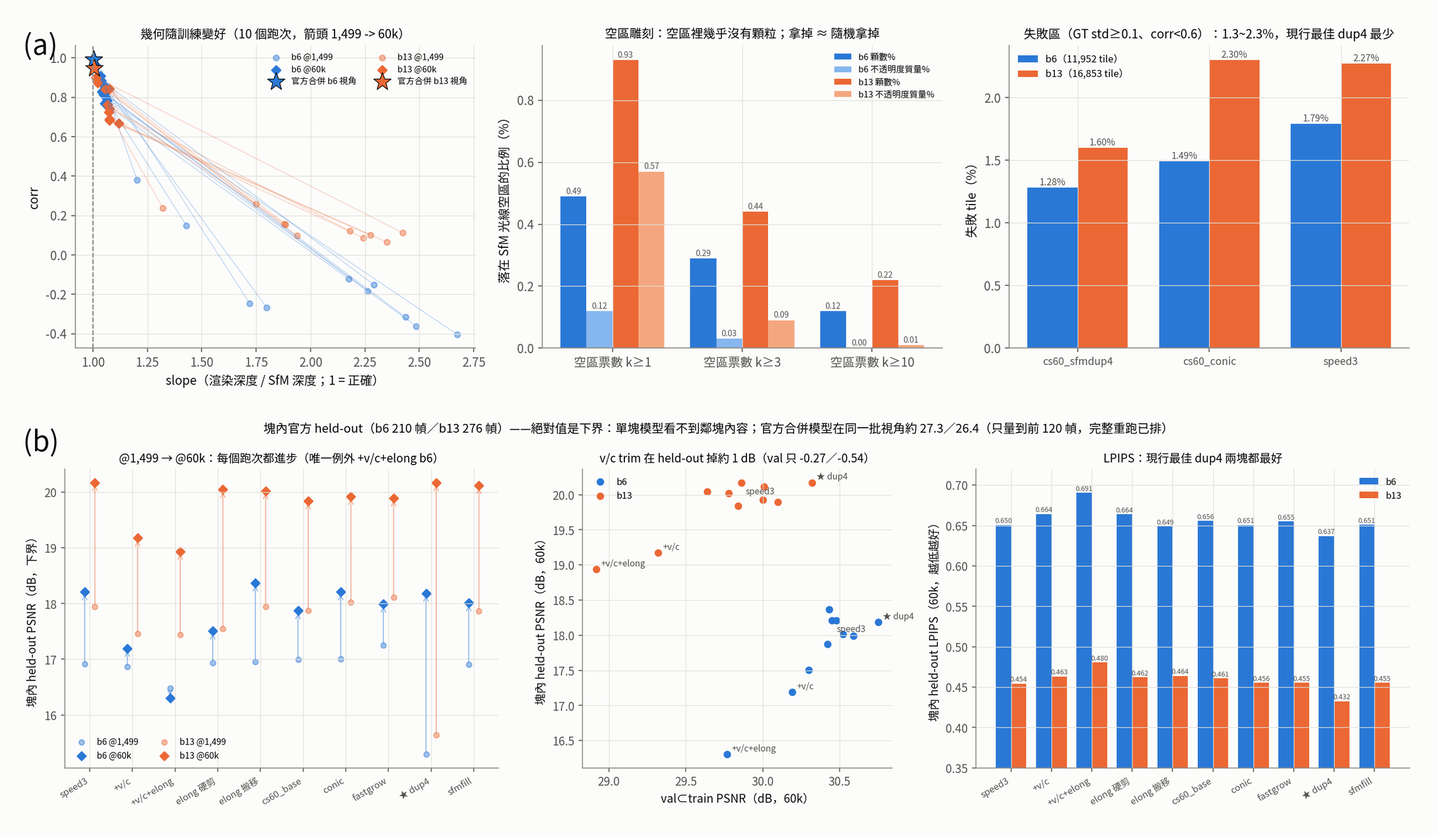
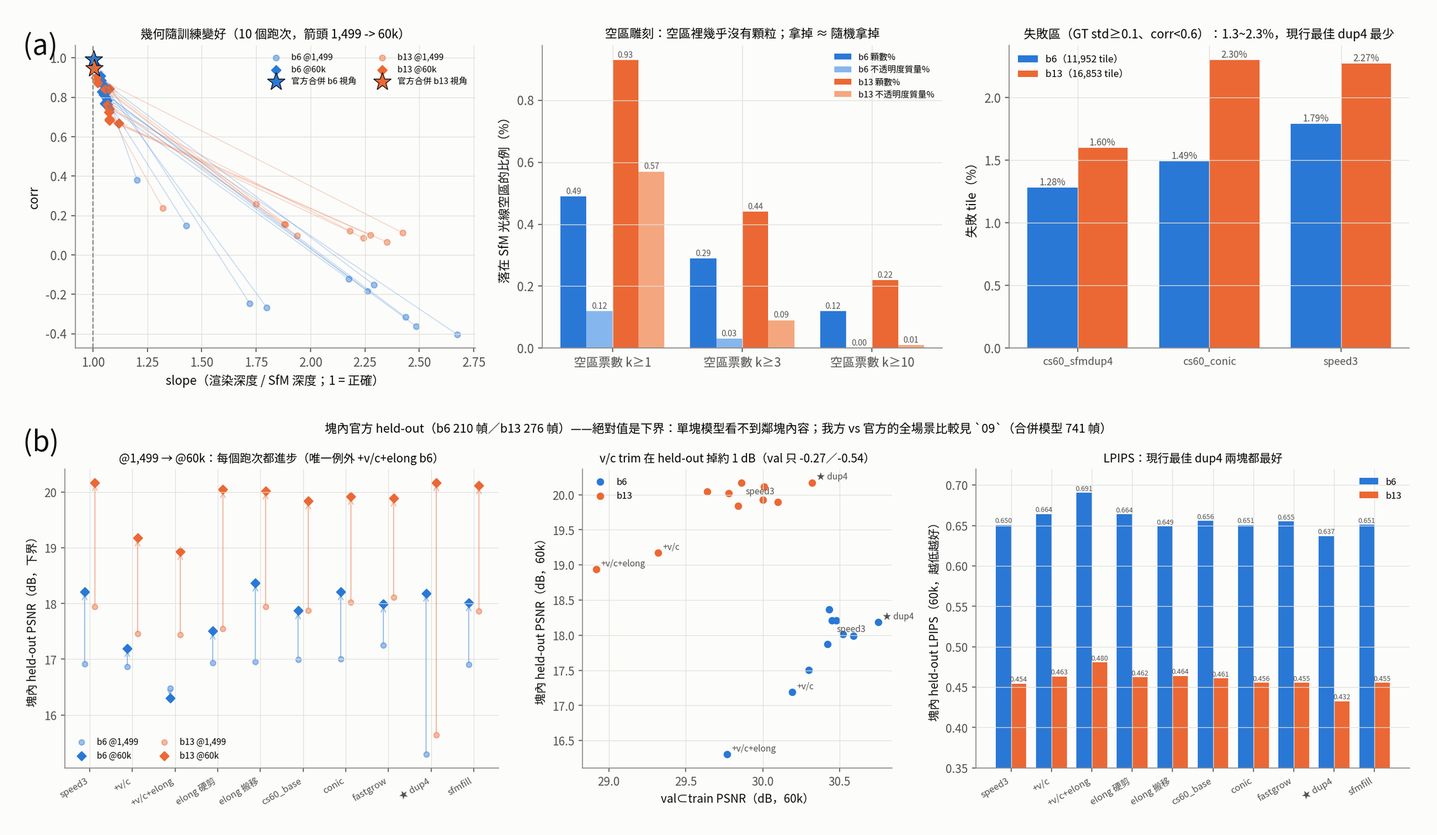
紀錄：我方 4x4 vs 官方 release／論文設定（合併 held-out 同工具三項勝、逐塊、同 N 逐段計時）；dup b13、oent、vpctilek；圖 08/09/12 更新
Claude-Session: https://claude.ai/code/session_01ASvjmyPMC4F37W41o8s8Aq

Changed region(s): [[0.1858, 0.4992, 0.8053, 0.5304]]

diff --git a/tools/plot_analysis.py b/tools/plot_analysis.py
@@ -147,10 +147,10 @@ def n08_init20k(d):
 
 
 def n08_init60k(d):
-    # 10-03：dup5（起始 > cap）與 dup4 抖動 1.0／0.25 只跑了 b6（b13 在佇列，4x4 之後）
+    # 10-08：dup5（起始 > cap）與 dup4 抖動 1.0／0.25 的 b13 出來了（vs cs60_conic b13 30.00）
     arms = ["sfmfill", "fastgrow\n(add_ratio 1.2)", "dup2", "★ dup4\n（現行最佳）", "dup5\n（起始 > cap）", "dup4\n抖動 1.0", "dup4\n抖動 0.25"]
     b6 = [0.04, 0.11, 0.10, 0.27, 0.28, 0.29, 0.18]
-    b13 = [0.01, 0.10, 0.13, 0.32, np.nan, np.nan, np.nan]
+    b13 = [0.01, 0.10, 0.13, 0.32, 0.30, 0.33, 0.19]
     x = np.arange(len(arms)); wd = 0.38
     fig, ax = plt.subplots(figsize=(11, 4.4))
     barlabels(ax, ax.bar(x - wd / 2, b6, wd, color=C1, label="b6"), fmt="{:+.2f}")
@@ -163,7 +163,7 @@ def n08_init60k(d):
     ax.axhline(0, color=MUTED, lw=1); ax.axvline(3.5, color=MUTED, lw=0.8, ls=":")
     ax.set_xticks(x); ax.set_xticklabels(arms, fontsize=8.5); ax.set_ylabel("ΔPSNR vs 預設 SfM（dB）")
     ax.legend(fontsize=8, loc="upper left")
-    ax.set_title("60k 完整配方（conic 開、同 N 2.34M）：相對預設 SfM init 的差；dup4 之後再加份數或改抖動都持平", fontsize=10.5)
+    ax.set_title("60k 完整配方（conic 開、同 N 2.34M）：相對預設 SfM init 的差；dup4 之後再加份數或改抖動都持平（兩塊都確認）", fontsize=10.5)
     save(fig, d, "n08_init60k.png")
 
 
@@ -195,6 +195,103 @@ def n09_official_blocks(d):
     ax.set_ylabel("val PSNR（dB，val⊂train）"); ax.legend(fontsize=8)
     ax.set_title("同上：val PSNR（論文設定：顆數少 25~42%、val 反而高）", fontsize=10)
     save(fig, d, "n09_official_blocks.png")
+
+
+# 10-09：我方最佳解 4x4（16 塊 [solo]、lean＋record_reduce、dup4、cap 2.6M）vs 官方 release vs 官方論文設定
+#   資料：lab outputs/lab/full44_best（chart_data、台帳）、cityGS_origin(_trimfix)/outputs/*/blocks、logs/citygs_official_resources.tsv
+#   峰值實佔一律 GB（1e9）：官方 MiB x 1.048576 / 1000；時間 = 分鐘（我方台帳 START->DONE；官方 wall_s）
+F44 = {
+    'oh': [20.239, 19.675, 22.011, 20.452, 19.714, 17.9, 19.316, 19.017, 21.96, 19.767, 20.406, 21.354, 22.545, 22.073, 21.824, 22.738],
+    'rh': [20.114, 19.947, 21.322, 17.15, 20.025, 18.357, 19.171, 16.871, 21.124, 17.491, 18.43, 18.961, 26.387, 22.869, 22.206, 23.212],
+    'ph': [19.811, 19.81, 20.99, 16.638, 19.569, 18.22, 18.898, 16.401, 20.665, 17.074, 18.112, 18.613, 26.191, 22.521, 21.809, 23.076],
+    'ohl': [0.5392, 0.5408, 0.3863, 0.4693, 0.567, 0.6447, 0.4906, 0.5315, 0.4726, 0.5475, 0.4944, 0.4427, 0.3642, 0.4181, 0.4438, 0.3911],
+    'rhl': [0.4457, 0.4051, 0.3079, 0.4466, 0.4524, 0.4634, 0.3987, 0.4723, 0.3772, 0.4976, 0.4537, 0.4212, 0.1671, 0.2942, 0.346, 0.3043],
+    'phl': [0.4894, 0.4324, 0.332, 0.5285, 0.5038, 0.4947, 0.4269, 0.5356, 0.3979, 0.5355, 0.4894, 0.4687, 0.1631, 0.3136, 0.3647, 0.324],
+    'opk': [4.12, 4.1, 4.09, 4.11, 4.07, 4.09, 4.05, 4.14, 4.11, 4.17, 4.05, 4.08, 4.05, 4.13, 4.07, 4.11],
+    'rpk': [10.81, 9.5, 8.39, 7.65, 12.43, 10.23, 9.7, 8.59, 14.56, 12.78, 11.16, 10.21, 13.35, 14.03, 14.17, 9.33],
+    'ppk': [7.34, 7.06, 6.89, 5.24, 9.57, 8.4, 8.25, 6.19, 10.14, 9.65, 8.47, 6.47, 9.79, 11.23, 9.74, 6.79],
+    'omin': [108, 120, 118, 119, 122, 112, 109, 121, 117, 114, 117, 122, 112, 111, 111, 107],
+    'rmin': [245, 219, 206, 198, 271, 244, 240, 224, 291, 280, 269, 352, 291, 317, 300, 358],
+    'pmin': [259, 248, 237, 215, 340, 278, 275, 255, 351, 323, 308, 273, 360, 396, 351, 459],
+    'rext': [0, 0, 0, 0, 0, 0, 0, 0, 0, 0, 5302, 16251, 6174, 7128, 8914, 18161],
+    'pext': [8290, 5722, 3674, 4610, 7358, 5108, 7712, 6448, 7698, 8278, 14854, 11654, 14704, 8696, 12228, 17351],
+}
+LBL3 = ["★ 我方 4x4", "官方 release", "官方論文設定"]
+
+
+def n09_full44_merged(d):
+    """合併模型、官方 741 幀 held-out，三者同一支工具（tools/eval_official_test.py）。"""
+    q = {"PSNR": [27.739, 27.261, 27.280], "SSIM": [0.8790, 0.8671, 0.8697], "LPIPS（越低越好）": [0.1293, 0.1540, 0.1467]}
+    r = {"N（百萬）": [17.63, 24.48, 24.72], "渲染 FPS": [35.6, 21.9, 21.9],
+         "16 塊總 N（百萬）": [37.44, 129.55, 87.89]}
+    fig, axs = plt.subplots(1, 6, figsize=(17, 3.6))
+    cols = [C1, MUTED, C2]
+    for ax, (k, v) in zip(axs, list(q.items()) + list(r.items())):
+        bars = ax.bar(range(3), v, color=cols, width=0.65)
+        fmt = "{:.3f}" if max(v) < 1 else ("{:.2f}" if max(v) < 50 else "{:.1f}")
+        barlabels(ax, bars, fmt=fmt, size=8)
+        lo = min(v); hi = max(v)
+        if k in ("PSNR", "SSIM", "LPIPS（越低越好）"):
+            ax.set_ylim(lo - (hi - lo) * 1.2, hi + (hi - lo) * 0.6)
+        ax.set_xticks(range(3)); ax.set_xticklabels(["我方", "release", "論文\n設定"], fontsize=8.5)
+        ax.set_title(k, fontsize=10)
+    fig.suptitle("合併模型・官方 741 幀 held-out（三者同一支評分工具）：我方三項全贏、顆數少 28%、FPS 1.6 倍"
+                 "　⚠ 同一個 release 模型，官方工具量 25.79／我方工具 27.26（差 1.47 dB，原因未查）", fontsize=10.5)
+    save(fig, d, "n09_full44_merged.png")
+
+
+def n09_full44_blocks(d):
+    x = np.arange(16); wd = 0.27
+    fig, axs = plt.subplots(1, 3, figsize=(18, 4.4))
+    ax = axs[0]
+    for k, c, dx, lb in [("oh", C1, -wd, LBL3[0]), ("rh", MUTED, 0, LBL3[1]), ("ph", C2, wd, LBL3[2])]:
+        ax.bar(x + dx, F44[k], wd, color=c, label=lb)
+    ax.set_ylim(15, 27.5); ax.set_xticks(x); ax.set_xticklabels([str(i) for i in x], fontsize=8)
+    ax.set_xlabel("4x4 block"); ax.set_ylabel("同塊 held-out PSNR（dB，下界）"); ax.legend(fontsize=7.5, ncol=3, loc="upper left")
+    ax.set_title("同塊 held-out（我方塊視角）：平均 20.69／20.23／19.90；LPIPS 官方 16 塊全較好\n"
+                 "⚠ 偏向官方：官方單塊從全場景 coarse 起步、看得到塊外", fontsize=9.5)
+    ax = axs[1]
+    for k, c, mk, lb in [("opk", C1, "o", LBL3[0]), ("rpk", MUTED, "s", LBL3[1]), ("ppk", C2, "^", LBL3[2])]:
+        ax.plot(x, F44[k], marker=mk, color=c, lw=1.2, ms=5, label=lb)
+    ax.axhline(6.44, color="#c0392b", lw=1, ls="--"); ax.text(15.4, 6.6, "6 GiB 卡", color="#c0392b", fontsize=8, ha="right")
+    ax.set_xticks(x); ax.set_xlabel("4x4 block"); ax.set_ylabel("訓練峰值實佔（GB）"); ax.legend(fontsize=7.5)
+    ax.set_title("峰值實佔：我方 4.05~4.17；release 7.65~14.56；論文設定 5.24~11.23（只有 b3、b7 低於 6 GiB）", fontsize=9.5)
+    ax = axs[2]
+    for k, c, dx, lb in [("omin", C1, -wd, LBL3[0]), ("rmin", MUTED, 0, LBL3[1]), ("pmin", C2, wd, LBL3[2])]:
+        bars = ax.bar(x + dx, [m / 60 for m in F44[k]], wd, color=c, label=lb)
+        if k != "omin":
+            ext = F44["rext" if k == "rmin" else "pext"]
+            for b_, e in zip(bars, ext):
+                if e > 2000:
+                    b_.set_hatch("///"); b_.set_alpha(0.45)
+    ax.set_xticks(x); ax.set_xlabel("4x4 block"); ax.set_ylabel("訓練時間（h）"); ax.legend(fontsize=7.5, loc="upper left")
+    ax.set_title("訓練時間（斜線＝期間外部佔卡 > 2 GB，不可引用）\nblock 0~9 乾淨：我方 19.3 h vs release 40.3 h（0.48 倍）", fontsize=9.5)
+    save(fig, d, "n09_full44_blocks.png")
+
+
+def n09_stepprof(d):
+    """同 N 附近的每步逐段時間（每標記點同步）：官方 stepprof b6（開頭 1,500 步）vs 我方 b6 @14,999 起 1,200 步。"""
+    segs = ["forward", "backward", "optimizer", "loss", "週期 trim\n（÷500 攤平）", "其他"]
+    ours = [21.15, 68.75, 15.14, 5.06, 35.95, 10.81]
+    rel = [47.45, 137.96, 15.66, 6.11, 0.0, 6.55]
+    pap = [41.61, 127.95, 10.74, 6.13, 58.20, 0.0]   # 官方 stepprof 的 trim 列已是每步攤平（1,500 步窗）；其他欄為負值（-14.8）記 0
+    names = ["★ 我方 b6\nN 2.29M（lean＋rr）", "官方 release b6\nN 2.50M（trim 不跑）", "官方論文設定 b6\nN 1.75M（含 trim）"]
+    fig, ax = plt.subplots(figsize=(12, 3.8))
+    cols = [C1, C2, C3, C4, "#c9b458", MUTED]
+    for i, row in enumerate([ours, rel, pap]):
+        left = 0
+        for j, v in enumerate(row):
+            if v > 0:
+                ax.barh(i, v, left=left, color=cols[j], label=segs[j] if i == 0 else None)
+                if v > 9:
+                    ax.text(left + v / 2, i, f"{v:.0f}", ha="center", va="center", fontsize=8, color="white")
+                left += v
+        ax.text(left + 3, i, f"{left:.0f} ms", va="center", fontsize=9, color=INK2)
+    ax.set_yticks(range(3)); ax.set_yticklabels(names, fontsize=8.5); ax.invert_yaxis()
+    ax.set_xlabel("每步 ms（逐段同步計時）"); ax.legend(fontsize=8, ncol=6, loc="upper center", bbox_to_anchor=(0.5, -0.2))
+    ax.set_title("同 N 附近：官方每步做 2 次 backward（loss 與 depth 的 extra_loss 各一次，各約 64~69 ms）、forward 帶幾何通道；"
+                 "我方 depth／normal 權重 0 => 1 次 backward＋lean", fontsize=9.5)
+    save(fig, d, "n09_stepprof.png")
 
 
 def n10_lean_loop(d):
@@ -355,7 +452,7 @@ def n12_heldout(d):
     ax.set_ylim(0.35, 0.72); ax.set_ylabel("塊內 held-out LPIPS（60k，越低越好）"); ax.legend(fontsize=8)
     ax.set_title("LPIPS：現行最佳 dup4 兩塊都最好", fontsize=10)
     fig.suptitle("塊內官方 held-out（b6 210 幀／b13 276 幀）——絕對值是下界：單塊模型看不到鄰塊內容；"
-                 "官方合併模型在同一批視角約 27.3／26.4（只量到前 120 幀，完整重跑已排）", fontsize=10.5)
+                 "我方 vs 官方的全場景比較見 `09`（合併模型 741 幀）", fontsize=10.5)
     save(fig, d, "n12_heldout.png")
 
 
@@ -369,7 +466,7 @@ DOCS = {
     "06_事後剪枝與fine-tune": ["f3_tile_topk_posthoc", "f6_prune_finetune"],
     "07_成本感知取樣與預算": ["n07_sampling"],
     "08_初始化": ["n08_init20k", "f4_init60k", "n08_init60k"],
-    "09_官方參考線": ["n09_official_blocks", "f7_official_trim", "f5_official_prune"],
+    "09_官方參考線": ["n09_full44_merged", "n09_full44_blocks", "n09_stepprof", "n09_official_blocks", "f7_official_trim", "f5_official_prune"],
     "10_速度優化_lean與kernel拆解": ["n10_lean_loop", "n10_kernels"],
     "11_逐配對工作量上限": ["n11_tiles"],
     "12_新年代重測_幾何floater失敗區": ["n12_recheck", "n12_heldout"],
@@ -408,7 +505,7 @@ def main():
                            capture_output=True, text=True)
         if r.returncode != 0:
             print(r.stdout[-2000:], r.stderr[-2000:]); raise SystemExit(f"⛔ {sc} 失敗")
-    for f in (n02_current, n05_cap60k, n07_sampling, n08_init20k, n08_init60k, n09_official_blocks,
+    for f in (n02_current, n05_cap60k, n07_sampling, n08_init20k, n08_init60k, n09_official_blocks, n09_full44_merged, n09_full44_blocks, n09_stepprof,
               n10_lean_loop, n10_kernels, n11_tiles, n12_recheck, n12_heldout):
         f(tmp)
     for doc, panels in DOCS.items():

diff --git a/紀錄/實驗分析/09_官方參考線.md b/紀錄/實驗分析/09_官方參考線.md
@@ -1,21 +1,34 @@
 # 09 官方參考線（CityGaussianV2 在當前資料上）
 
-> **圖**：`09_官方參考線.png`（同名，3 個面板）　｜　**年代**：新年代；**held-out＝官方 741 幀 test**（唯一可對外比的數字）
+> **圖**：`09_官方參考線.png`（同名，6 個面板）　｜　**年代**：新年代；**held-out＝官方 741 幀 test**（唯一可對外比的數字）
 > **資料**：lab `cityGS_origin`（未修改原始碼）＋ `gspl_official`（照官方 requirements 建的環境）；`scripts/lab/task_citygs_origin.sh`；
 > 資源 `logs/citygs_official_resources.tsv`、逐塊現況 `logs/citygs_official_status_*.txt`、剪枝 `logs/citygs_official_prune.tsv`（lab）
-> **重現**：`python tools/plot_analysis.py`（a=新 `n09_official_blocks`、b=舊 f7、c=舊 f5）
+> 我方 4x4：lab `outputs/lab/full44_best`（`logs/full44_test_1005_0432.log`、`full44_res_1005_0452.log`、各塊 `chart_data/`）；官方逐段計時 `logs/citygs_official_stepprof_{orig,paper}_b6.txt`
+> **重現**：`python tools/plot_analysis.py`（a=`n09_full44_merged`、b=`n09_full44_blocks`、c=`n09_stepprof`、d=`n09_official_blocks`、e=舊 f7、f=舊 f5）
 
 ## 圖表對照
 
 | 面板 | 內容 | 對應本文 |
 |---|---|---|
-| (a) | 官方 block 3／6：原版（trim 從未執行）vs 一行修正（trim 執行）vs 論文設定 的 N 與 val | §3、§4 |
-| (b) | 官方配方讓 trim 真的執行（官方 b3）：N、val、峰值 VRAM、牆鐘 | §3 |
-| (c) | 官方合併模型依 opacity 剪枝的 held-out 曲線 | §5 |
+| (a) | ★ 合併模型・官方 741 幀 held-out：我方 4x4 vs 官方 release vs 官方論文設定（同一支工具）＋N／FPS | §0.1 |
+| (b) | 逐塊（4x4 共 16 塊）：同塊 held-out PSNR、訓練峰值實佔、訓練時間 | §0.2 |
+| (c) | 同 N 附近的每步逐段時間：我方 vs 官方 release vs 論文設定（b6） | §0.3 |
+| (d) | 官方 block 3／6：原版（trim 從未執行）vs 一行修正（trim 執行）vs 論文設定 的 N 與 val | §3、§4 |
+| (e) | 官方配方讓 trim 真的執行（官方 b3）：N、val、峰值 VRAM、牆鐘 | §3 |
+| (f) | 官方合併模型依 opacity 剪枝的 held-out 曲線 | §5 |
 
 ## 結論
 
-- **現行（10-03）**：官方原版 held-out 25.79／0.833／0.176 是唯一的對外基準；照論文設定的全場景（14 塊＋合併＋held-out）已排；我方的合併＋held-out 還沒跑。
+- **現行（10-09）★ 我方最佳解 4x4 全場景（合併 17.63M）在官方 741 幀 held-out 三項都贏兩條官方線**（同一支評分工具）：
+  **27.739／0.879／0.129** vs release 27.261／0.867／0.154（24.48M）vs 論文設定 27.280／0.870／0.147（24.72M）；
+  渲染 35.6 vs 21.9 FPS；訓練峰值實佔 **≤ 4.17 GB**（官方 release 7.65~14.56、論文設定 5.24~11.23）；乾淨的 block 0~9 訓練時間 0.48 倍。
+- ⚠ **評分工具有 1.47 dB 落差**：同一個 release 模型，官方 `main.py test` 量 25.79、我方 `eval_official_test.py` 量 27.26（原因未查）
+  => 目前只能說「同一支工具下我方第一」；與論文 27.23 不可比。論文設定的官方工具 test 10-08 因 `--output` 指錯失敗，已修、重排（第二個交叉點）。
+- 同 N 附近每步：我方 121 ms vs 官方 release 214 ms（1.78 倍）。官方每步 **2 次 backward**（loss 與深度的 extra_loss 分開 backward，各約 69 ms）
+  且 forward 帶幾何通道；我方 depth／normal 權重 0 => 1 次 backward＋lean。
+- 同塊 held-out（單塊模型、我方塊視角）：PSNR 平均 20.69／20.23／19.90、我方 9/16 塊勝 release；**LPIPS 官方 16 塊全較好**——
+  但這個量尺偏向官方（官方單塊從全場景 coarse 起步、看得到塊外；合併後這個優勢消失，合併 LPIPS 反而我方好）。
+- 官方兩條線之間：論文設定的 val 15/16 塊高於 release，但同塊 held-out 16/16 塊**低於** release；合併後幾乎平手（+0.02 dB、LPIPS 較好）。
 - **官方原版在當前資料上的 held-out：PSNR 25.79／SSIM 0.833／LPIPS 0.176**，N 24.48M、ckpt 41 GB、test 峰值實佔 11.9 GB、每幀 0.088 s。
 - **官方 aerial release 的 trim 從未執行**：從 .ckpt 初始化時 renderer 被 coarse 的（`diable_trimming: true`）蓋掉，resolved config 卻仍記 false。
   一行修正後官方 b3：N 5.23M → 0.91M（-83%）、峰值 7.30 → 2.75 GB、val 31.69 → 30.87；我方程式碼跑同配方 0.93M／30.91 => 一致。
@@ -24,6 +37,71 @@
 - 官方模型依 opacity 剪 10% 逐位元不變、剪 25% 只 -0.03 => 約 610 萬顆幾乎白付。
 - **v/c trim 在官方 vanilla 配方大輸**（b3 -2.62、b6 -3.77）：v/c 只在 MCMC 下有效。
 - 與論文 27.23 的差距：release 的 trim 沒跑、ω／prune_ratio 與論文不同、資料為重生版 —— 論文設定的全場景出來後再談。
+
+
+## §0 我方最佳解 4x4 vs 官方（10-09，面板 a、b、c）
+
+**配置**
+```
+我方     cs60_sfmdup4 配方（conic、dup4 init、cap 2.6M、sh3、absgrad 2.0、lean＋record_reduce），4x4（visibility 0.08）、16 塊 [solo]、不鎖 VRAM
+release  官方 cityGS_origin 未改原始碼＋gspl_official，sh2、coarse -> 4x4（0.05）-> 16 塊 60k；trim 從未執行（§3）
+論文設定 release＋一行修正（trim 執行）＋ω 0.9、prune_ratio 0.025（§4）
+```
+
+### §0.1 合併模型（面板 a；官方 741 幀，三者都用 `tools/eval_official_test.py`）
+
+| | PSNR | SSIM | LPIPS | N | 渲染 | 渲染峰值配置 |
+|---|---:|---:|---:|---:|---:|---:|
+| **★ 我方 4x4** | **27.739** | **0.8790** | **0.1293** | **17.63M** | **28.1 ms（35.6 FPS）** | 6.32 GiB |
+| 官方 release | 27.261 | 0.8671 | 0.1540 | 24.48M | 45.6 ms（21.9 FPS） | 7.08 GiB |
+| 官方論文設定 | 27.280 | 0.8697 | 0.1467 | 24.72M | 45.8 ms（21.9 FPS） | 7.13 GiB |
+| （官方工具量 release） | 25.79 | 0.833 | 0.176 | | 88 ms | 11.9 GB |
+
+⚠ 工具落差 1.47 dB（同一個 release 模型）未查；排名在同一支工具下成立，絕對值暫不對外。
+
+### §0.2 逐塊（面板 b；4x4 block 0~15，格位相同但訓練相機只重疊 52~70%）
+
+| 塊 | 相機 | val 我／rel／論 | 同塊 held-out PSNR 我／rel／論 | LPIPS 我／rel／論 | 峰值 GB 我／rel／論 | 時間 h 我／rel／論 | N rel／論 |
+|---|---:|---|---|---|---|---|---|
+| 0 | 468 | 31.78／30.90／30.99 | 20.24／20.11／19.81 | 0.539／0.446／0.489 | 4.12／10.81／7.34 | 1.80／4.09／4.31* | 8.22／5.29 |
+| 1 | 811 | 30.34／30.66／30.83 | 19.68／19.95／19.81 | 0.541／0.405／0.432 | 4.10／9.50／7.06 | 2.00／3.65／4.13* | 7.07／4.60 |
+| 2 | 1009 | 29.65／29.54／29.72 | 22.01／21.32／20.99 | 0.386／0.308／0.332 | 4.09／8.39／6.89 | 1.97／3.44／3.95* | 6.03／4.33 |
+| 3 | 899 | 31.19／31.69／31.78 | 20.45／17.15／16.64 | 0.469／0.447／0.528 | 4.11／7.65／5.24 | 1.98／3.31／3.58* | 5.23／3.05 |
+| 4 | 799 | 30.74／30.36／30.50 | 19.71／20.02／19.57 | 0.567／0.452／0.504 | 4.07／12.43／9.57 | 2.03／4.51／5.66* | 9.42／6.90 |
+| 5 | 698 | 29.56／30.20／30.42 | 17.90／18.36／18.22 | 0.645／0.463／0.495 | 4.09／10.23／8.40 | 1.87／4.07／4.64* | 7.77／5.41 |
+| 6 | 775 | 28.96／30.14／30.35 | 19.32／19.17／18.90 | 0.491／0.399／0.427 | 4.05／9.70／8.25 | 1.82／4.00／4.59* | 7.11／5.31 |
+| 7 | 952 | 30.75／31.74／31.86 | 19.02／16.87／16.40 | 0.531／0.472／0.536 | 4.14／8.59／6.19 | 2.02／3.74／4.25* | 6.08／3.77 |
+| 8 | 762 | 31.90／31.88／31.99 | 21.96／21.12／20.66 | 0.473／0.377／0.398 | 4.11／14.56／10.14 | 1.95／4.85／5.85* | 10.45／7.09 |
+| 9 | 823 | 29.69／31.10／31.16 | 19.77／17.49／17.07 | 0.547／0.498／0.535 | 4.17／12.78／9.65 | 1.90／4.67／5.38* | 9.72／6.73 |
+| 10 | 938 | 28.99／31.26／31.37 | 20.41／18.43／18.11 | 0.494／0.454／0.489 | 4.05／11.16／8.47 | 1.95／4.48*／5.14* | 8.33／5.84 |
+| 11 | 968 | 30.75／32.11／32.18 | 21.35／18.96／18.61 | 0.443／0.421／0.469 | 4.08／10.21／6.47 | 2.03／5.87*／4.56* | 6.92／4.16 |
+| 12 | 516 | 33.25／32.02／32.05 | 22.55／26.39／26.19 | 0.364／0.167／0.163 | 4.05／13.35／9.79 | 1.87／4.86*／5.99* | 9.71／6.72 |
+| 13 | 695 | 30.78／30.44／30.40 | 22.07／22.87／22.52 | 0.418／0.294／0.314 | 4.13／14.03／11.23 | 1.85／5.28*／6.61* | 10.64／7.99 |
+| 14 | 731 | 30.36／31.50／31.57 | 21.82／22.21／21.81 | 0.444／0.346／0.365 | 4.07／14.17／9.74 | 1.85／5.01*／5.85* | 10.01／6.62 |
+| 15 | 520 | 32.88／33.00／33.08 | 22.74／23.21／23.08 | 0.391／0.304／0.324 | 4.11／9.33／6.79 | 1.78／5.96*／7.65* | 6.84／4.08 |
+| **平均／合計** | | 30.72／31.16／31.27 | **20.69**／20.23／19.90 | 0.484／**0.391**／0.425 | **4.10**／11.06／8.20 | 我方合計 **30.7 h** | Σ 129.6／87.9（我方 Σ 37.4）|
+
+`*`＝訓練期間同卡外部佔用估計 > 2 GB => 時間不可引用（論文設定 16 塊全部中、release 10~15 中）。我方 N 每塊 2.34M。
+- 時間只比乾淨的 block 0~9：我方 **19.3 h** vs release **40.3 h**（0.48 倍；逐塊 0.40~0.60）。
+- 峰值：我方全部 ≤ 4.17 GB；release 每塊都超過 6 GiB；論文設定只有 b3（5.24）、b7（6.19）低於 6 GiB（6.44 GB）。
+- 同塊 held-out 的偏向：官方單塊模型由全場景 coarse 微調、含塊外內容，而 held-out 視角大半看到塊外 => 對單塊官方有利；
+  b12 最明顯（官方 26.39 vs 我方 22.55）。合併後各塊只保留塊內，這個優勢消失 => **全場景比較以 §0.1 為準**。
+- val 不同影像（相機重疊 52~70%），只當參考；官方 val 平均高 0.44~0.54，與合併 held-out 方向相反。
+
+### §0.3 同 N 附近的每步逐段時間（面板 c；每標記點同步）
+
+| 段落（ms／步） | 我方 b6 N 2.29M（@14,999、lean＋rr） | 官方 release b6 N 2.50M（開頭 1,500 步） | 官方論文設定 b6 N 1.75M |
+|---|---:|---:|---:|
+| forward | 21.15 | 47.45 | 41.61 |
+| backward | 68.75（1 次） | **137.96（2 次 × 68.9）** | 127.95（2 次 × 64.0） |
+| optimizer | 15.14 | 15.66（2 次） | 10.74（2 次） |
+| loss | 5.06 | 6.11 | 6.13 |
+| 週期 trim | 35.95（÷500） | 0（不跑） | 58.20（取樣窗攤平） |
+| 真實每步（不含 trim） | **120.7** | **214.4** | — |
+
+- 官方 `internal/gaussian_splatting.py:397-402`：`manual_backward(loss, retain_graph=...)` 之後再 `manual_backward(extra_loss)`（深度 loss）=> 每步兩趟光柵 backward。
+- 我方配方 depth／normal 權重為 0 => 零權重 loss 閘門跳過、lean_render 拿掉幾何通道（`10`）。
+- ⚠ 階段不同（官方是開頭 1,500 步、我方 @15k）；量級（同 N 約 1.8 倍）與 `01` 的推算一致。
 
 ---
 
@@ -78,7 +156,7 @@ trim 的 `prune_ratio` 0.025（預設 0.1）。只用命令列覆寫，程式碼
 | b3 | 5.23M ／ 31.69 / .926 / .097 | 0.91M ／ 30.86 / .911 / .121 | **3.05M ／ 31.78 / .929 / .094** |
 | b6 | 7.11M ／ 30.14 / .908 / .110 | — | **5.31M ／ 30.35 / .914 / .102** |
 
-⏳ 其餘 14 塊＋合併＋官方 held-out 已排（`task_citygs_origin.sh blockpaper／mergepaper／testpaper`）。
+✅ 16 塊＋合併完成（10-08），全場景結果見 §0；官方工具的 testpaper 第一次因 `--output` 指錯失敗，已修、重排。
 
 ## §5 官方合併模型依 opacity 剪枝（官方 test 評分，面板 c）
 
@@ -103,9 +181,9 @@ trim 的 `prune_ratio` 0.025（預設 0.1）。只用命令列覆寫，程式碼
 - 使用者手動的全域版（官方 config、我方程式碼、**沒分塊、沒 trim**）：held-out 25.62／0.776／0.319（舊 test input 量的，⚠ 待用正確 test 集重驗）、N 11.44M、常駐 6.31 GB、約 23.3 h。
 - 官方 held-out 的渲染圖：lab `cityGS_origin/outputs/citygsv2_mc_aerial_sh2_trim/test/epoch=87-step=60000/`（741 張，左 GT 右渲染）。
 
-## ⏳ 已排（官方線補資料，同一套我方量測）
-`task_citygs_origin.sh stepprof 6`（官方原版與論文設定的真實迴圈逐段計時）、`evalours`（我方評分工具交叉驗證 25.79，補紋理比／FPS／VRAM）、
-`storage`（ckpt 與跑次目錄組成）；論文設定線的 `blockload`／`res`／`prune`／`evalours` 排在 testpaper 之後（`CITYGS_OFF_LINE=paper`）。
+## 官方線補資料（10-05~08 完成）
+stepprof（§0.3）、evalours（§0.1；**與官方工具差 1.47 dB，待查**）、storage、論文設定線的 blockload／res／prune／evalours 已完成；
+⏳ testpaper（官方工具量論文設定合併模型）重排中。
 
 ## 限制
 - 官方的 b3／b6 是**官方 4x4 分區**的編號，與我方 5x5 的 b6／b13 不是同一塊地。

diff --git a/紀錄/實驗分析/08_初始化.md b/紀錄/實驗分析/08_初始化.md
@@ -15,15 +15,14 @@
 
 ## 結論
 
-- **現行（10-03）**：dup4 是現行最佳 init（圖中 ★）；塊內 held-out 的 LPIPS 兩塊都最好（`12` §6）。更激進的 dup5（起始 > cap）、dup4 抖動 1.0／0.25 的 b6 60k 都與 dup4 持平（30.76／30.77／30.66 vs 30.75）
-  => dup4 是頂：再加份數或改抖動沒有額外增益；b13 排在 4x4 之後。dup8 沒排：起始約 4.7M 顆、峰值約 10 GB，超出 6GB 信封。
+- **現行（10-09）**：dup4 是現行最佳 init（圖中 ★），也是 4x4 全場景勝官方那一版的 init（`09` §0）。更激進的 dup5（起始 > cap）、dup4 抖動 1.0／0.25 **兩塊都與 dup4 持平**（b6 30.76／30.77／30.66 vs 30.75；b13 30.30／30.33／30.19 vs 30.32）
+  => dup4 是頂：再加份數或改抖動沒有額外增益（b13 塊內 held-out 也同級：20.46／20.07／20.17 vs 20.17）。dup8 沒排：起始約 4.7M 顆、峰值約 10 GB，超出 6GB 信封。
 - **SfM init 大勝 depth-init**（+1.33／+1.18 dB，四項同向）；random init 族群崩潰（-6 dB）。depth-init 已退役。
 - **dup4（SfM 點複製 4 份＋抖動）是現行最佳 init**：60k 完整配方同 N 下 **+0.27／+0.32 dB**、SSIM/LPIPS/紋理比同向，終點渲染還更便宜（Load -5.6%／-8.3%）。
 - 機制分辨（60k）：**fastgrow（只把每次增生倍率 1.05→1.2）拿到約 +0.10~0.11**、dup2 +0.10~0.13、dup4 +0.27~0.32
   => 「提早長滿」解釋了一部分，**劑量越多越好**，有額外的部分不是時間平移能解釋的。
 - sfmfill（空處補點）在 20k 的 +0.17 是**顆數混淆**（終點多 9~12% 顆）；在 60k 完整配方下 = 預設。
 - 起始 trim 在 SfM 類 init 下幾乎不砍（b6 只剪 1 顆）；random 被砍 74% —— 原因是**範圍**：隨機點撒在半寬 3R 的立方體，內容只佔 0.127%。
-- ⏳ 更激進的 dup：dup5（起始 > cap）、dup4 抖動 1.0／0.25 已排 60k。
 
 ---
 
@@ -75,9 +74,9 @@
 | fastgrow（add_ratio 1.2） | 30.59 / .891 / .122 / .800 | +0.11 | 30.10 / .898 / .122 / .825 | +0.10 |
 | dup2 | 30.58 / .891 / .121 / .802 | +0.10 | 30.13 / .900 / .119 / .828 | +0.13 |
 | **dup4** | **30.75 / .894 / .115 / .805** | **+0.27** | **30.32 / .904 / .111 / .834** | **+0.32** |
-| dup5（起始 2.96M > cap） | 30.76 / .895 / .115 / .807 | +0.28 | ⏳ 排隊中 | |
-| dup4 抖動 1.0 | 30.77 / .895 / .115 / .805 | +0.29 | ⏳ 排隊中 | |
-| dup4 抖動 0.25 | 30.66 / .893 / .117 / .805 | +0.18 | ⏳ 排隊中 | |
+| dup5（起始 2.96M > cap） | 30.76 / .895 / .115 / .807 | +0.28 | 30.30 / .903 / .111 / .834 | +0.30 |
+| dup4 抖動 1.0 | 30.77 / .895 / .115 / .805 | +0.29 | 30.33 / .903 / .112 / .832 | +0.33 |
+| dup4 抖動 0.25 | 30.66 / .893 / .117 / .805 | +0.18 | 30.19 / .901 / .115 / .831 | +0.19 |
 
 - 終點 N 都是 2.34M（cap 2.6M 的 90%）、峰值實佔 4.27~4.40 GB => 不是顆數效應。
 - 面板 b（軌跡）：dup4 在 step ~2.3k 長滿（預設 ~14.3k），∫N dstep +13.8%（估訓練時間 +~9%）；領先從 22k 起穩定在 +0.25~0.3、到 60k 不縮小；sfmfill 與預設逐點相同。

diff --git a/CLAUDE.md b/CLAUDE.md
@@ -39,7 +39,7 @@ parallel => their wall-time / reserved-VRAM columns are not comparable across th
 VRAM are all neighbour-independent (only wall time and it/s are, and those have dedicated `[solo]` tools).
 The laptop = absolute verification: re-run the stage winner there to claim the envelope.**
 
-**★★★ Current state of the proposition (2026-09-17, with 2026-10-03 additions; lab, blocks b6/b12/b13; authority = `紀錄/研究總覽.md` §0):**
+**★★★ Current state of the proposition (2026-09-17, with 2026-10-03/10-09 additions; lab, blocks b6/b12/b13; authority = `紀錄/研究總覽.md` §0):**
 ```
 2026-10-03       current best = cs60_sfmdup4 (conic exact AABB is the default + task_cmp.sh common flags + dup4 init):
                    60k val b6 30.75 / b13 30.32; lean_train (-20.9%/step, render bit-identical) installed on lab
@@ -47,6 +47,10 @@ The laptop = absolute verification: re-run the stage winner there to claim the e
                  v/c trim with conic on: 60k -0.17/-0.20, LPIPS better; on the 22k cost-quality frontier it beats cap-only
                    by ~+1.2 dB at equal Load; cost_budget (proxy or exact units) does NOT beat simply lowering cap
                  new-era rechecks: almost no floaters, failure tiles 1.3~2.3%, geometry improves with training
+2026-10-09       ★ full scene 4x4 (cs60_sfmdup4, 16 blocks [solo]): merged 741-frame held-out 27.74/.879/.129 (17.63M, 35.6 FPS,
+                   train peak <=4.17 GB) beats official release 27.26/.867/.154 and paper setting 27.28/.870/.147 -- SAME eval tool
+                   (tools/eval_official_test.py). ⚠ same release model: official tool 25.79 vs ours 27.26 (1.47 dB gap, uninvestigated).
+                   Official does 2 backward passes/step (depth extra_loss) => 214 vs 121 ms/step at ~same N. => 紀錄/實驗分析/09 §0
 pruning side     trim criterion v -> v/c (`renderer.init_args.trim_by_value_per_cost`)
                  short recipe (22k~27k, 3 blocks): same N, offline Load median -64~-67%, VRAM -7%, LPIPS better 3/3,
                    PSNR -0.002/-0.08/-0.17

diff --git a/紀錄/實驗分析/12_新年代重測_幾何floater失敗區.md b/紀錄/實驗分析/12_新年代重測_幾何floater失敗區.md
@@ -130,6 +130,11 @@ b6 失敗組 corr 0.381 → 0.778、鄰域 -0.130；b13 0.300 → 0.797、鄰域
 val⊂train 也是全畫面，但模型「背過」訓練視角的塊外內容，所以高。=> **只比同一批視角上的排序**，不和 val 或官方合併模型的 25.79 比。
 官方合併模型（全部 16 塊都在）在同一批視角：b6 前 120 幀累計 27.3、b13 前 120 幀累計 26.4（第一次 `head -8` 截掉了最終指標；完整重跑已排 [solo]）。
 
+**4x4 全場景的同塊對照（10-08，詳表與圖 = `09` §0.2、面板 b）**：用同一支工具、我方 4x4 分區選視角，評我方 4x4 各塊、官方 release 各塊、官方論文設定各塊。
+16 塊平均 PSNR 20.69／20.23／19.90（我方 9/16 塊勝 release、11/16 勝論文設定），**LPIPS 0.484／0.391／0.425（官方 16 塊全較好）**。
+這個量尺偏向官方：官方單塊由全場景 coarse 微調、含塊外內容；合併後（各塊只留塊內）我方三項都贏（27.74／.879／.129 vs 27.26／.867／.154），
+=> **單塊 held-out 只用來比同一條線內的配方；跨線比較用合併模型。**
+
 | 跑次 | b6 @1,499 | b6 @60k PSNR／SSIM／LPIPS | b13 @1,499 | b13 @60k PSNR／SSIM／LPIPS | val⊂train b6／b13 |
 |---|---:|---|---:|---|---|
 | speed3（conic 關，depth init） | 16.91 | 18.21 / .521 / .651 | 17.94 | 20.17 / .627 / .454 | 30.45 / 29.86 |

diff --git a/紀錄/README.md b/紀錄/README.md
@@ -12,10 +12,11 @@
 現行最佳   cs60_sfmdup4：live config（conic 精確外接盒＝預設）＋ task_cmp.sh 的共同旗標 ＋ dup4 init
            60k val⊂train  b6 30.75 / .894 / .115     b13 30.32 / .904 / .111
            速度：lean_train（每步 -20.9%，渲染逐位元相同）已裝 lab
-對外基準   官方 CityGSV2 原版（未改原始碼）在當前資料：官方 741 幀 held-out 25.79 / .833 / .176（24.48M 顆）
-           我方的合併＋held-out 還沒跑
+★ 全場景   我方 4x4（cs60_sfmdup4）合併 27.74 / .879 / .129（17.63M、35.6 FPS、訓練峰值 ≤4.17 GB）
+           vs 官方 release 27.26 / .867 / .154、官方論文設定 27.28 / .870 / .147（同一支我方評分工具；實驗分析/09 §0）
+對外基準   官方 release 用官方工具 25.79 / .833 / .176（24.48M 顆）——⚠ 同一模型我方工具 27.26，工具落差 1.47 dB 待查
 命題       成本感知密度控制：剪枝端（v/c trim）在前緣上贏；取樣端是旋鈕；約束端（預算）不贏 cap
-下一步     lab 佇列：塊內 held-out 重測、速度第二批（record_reduce／tile_cull）、約 33 個單變數 60k、論文設定的官方全場景
+下一步     lab 佇列：單變數 60k（cag／coreg0／cdist）、testpaper（工具落差交叉點）、獨佔時間臂（cnotrim、csh 曲線）、coarse 閘門
 ```
 
 ## 文件地圖
